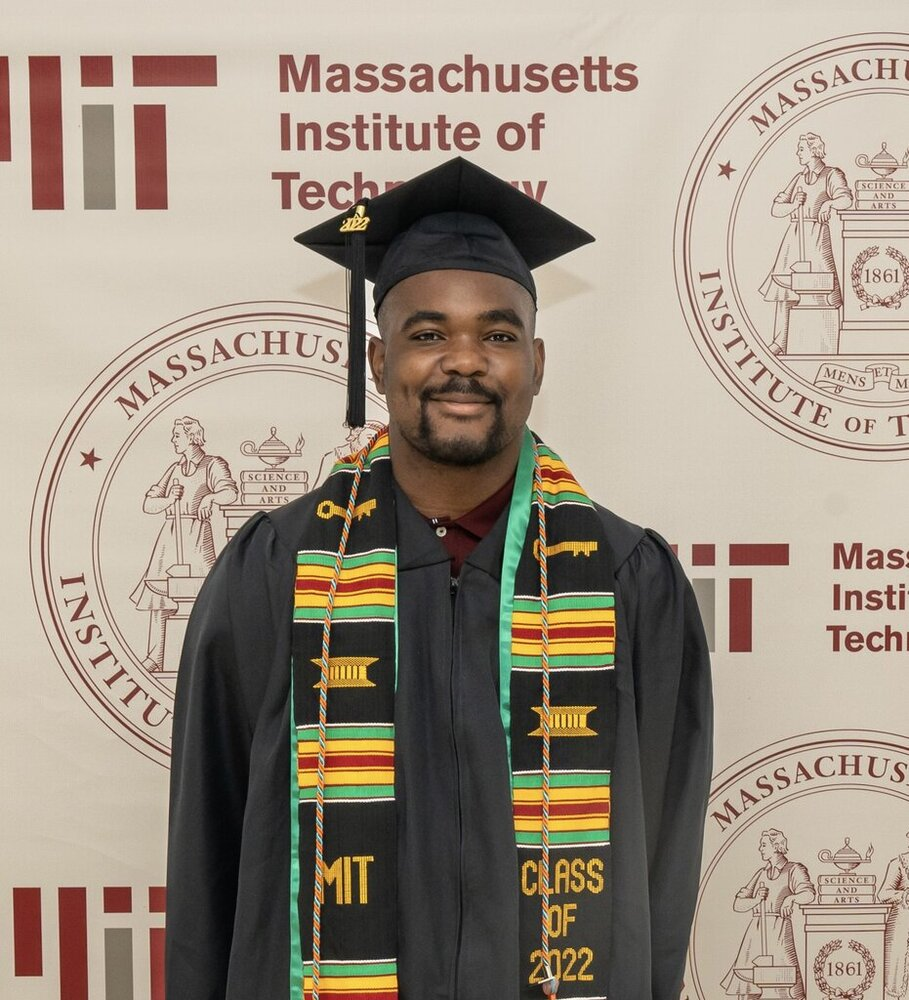
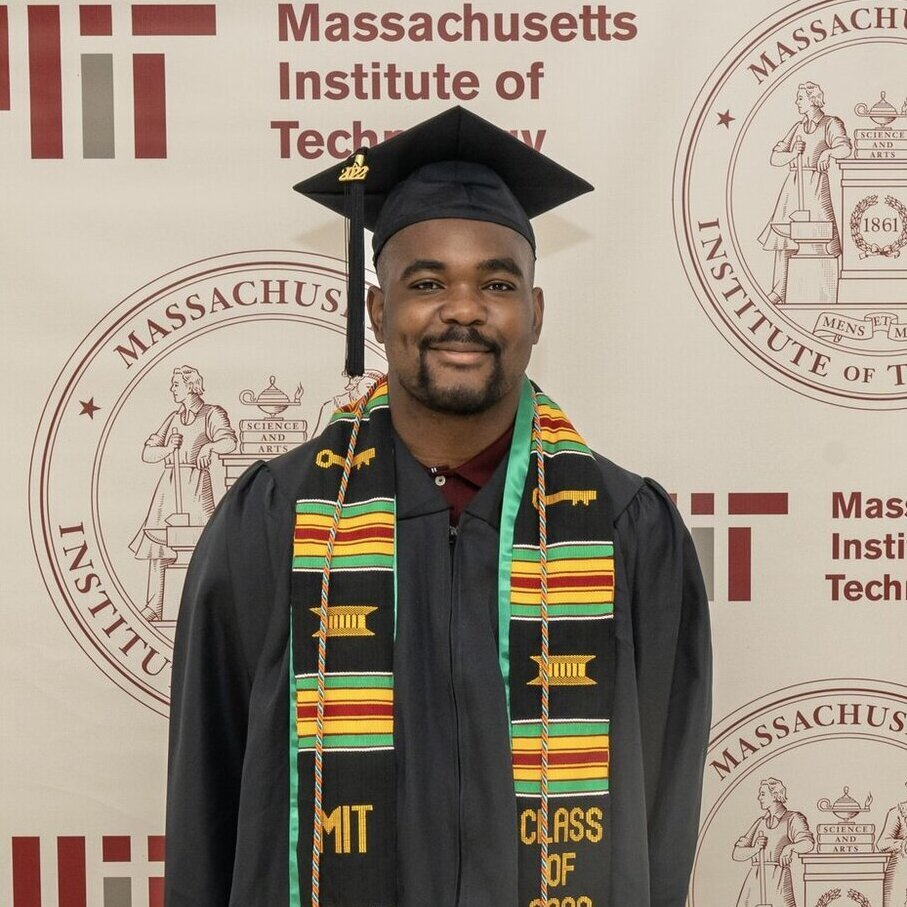
added recropped photos

diff --git a/_pages/bio.md b/_pages/bio.md
@@ -7,10 +7,13 @@ nav_order: 1
 ---
 
 <div class="row justify-content-sm-center">
-    <div class="col-sm-4">
+    <div class="col-sm-5">
         {% include figure.html path="assets/img/gradphoto.jpg" title="Grad Photo" class="img-fluid rounded z-depth-1" %}
     </div> 
-    <div class="col-sm-4">
+    <div class="col-sm-2">
+        {% include figure.html path="assets/img/eagles_jersey_pic.jpg" title="Grad Photo" class="img-fluid rounded z-depth-1" %}
+    </div>   
+    <div class="col-sm-5">
         {% include figure.html path="assets/img/LADaniel_crop.jpg" title="Grad Photo" class="img-fluid rounded z-depth-1" %}
     </div>
     <div class="col-sm-12">
